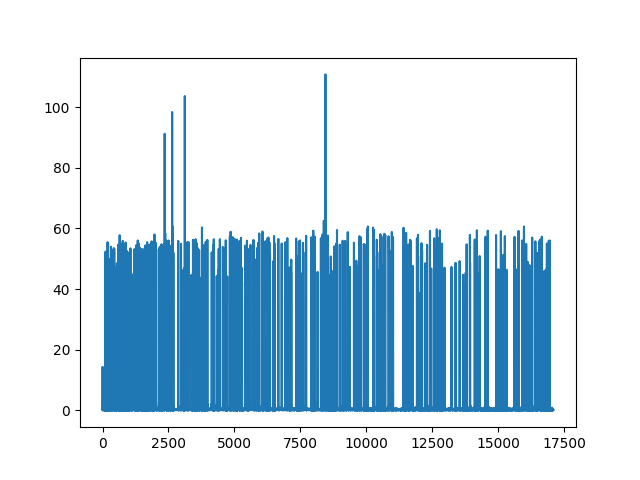
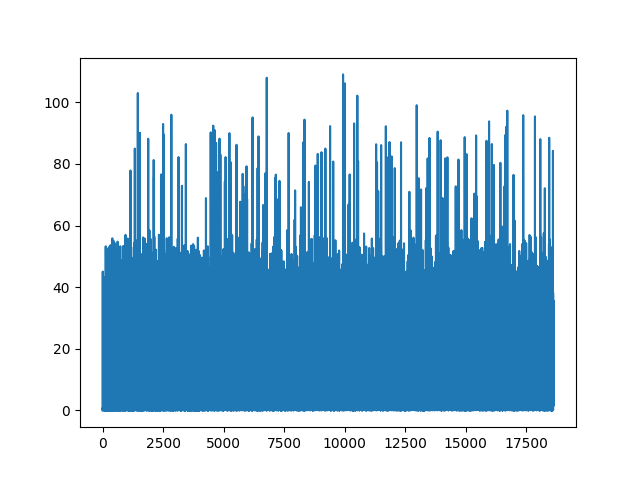
u

diff --git a/actor_critic_cat_mouse/a22c.py b/actor_critic_cat_mouse/a22c.py
@@ -39,7 +39,7 @@ def A2C(env:grid,
             a_tab = {"cat":cat(s_tab["cat"]), "mouse":mouse(s_tab["mouse"])}
             s_cat,reward_cat = env.transition_cat(a_tab["cat"])
             s_mouse,reward_mouse = env.transition_mouse(a_tab["mouse"])
-            s_tab_prim = {"cat":s_cat,"mouse":s_mouse}
+            s_tab_prim = {"cat":env.state_cat(),"mouse": env.state_mouse()}
             #######"corriger
             cat.buffer.store({"state":s_tab,"action":a_tab,"new_state":s_tab_prim,"reward":reward_cat})
             mouse.buffer.store({"state":s_tab,"action":a_tab,"new_state":s_tab_prim,"reward":reward_mouse})
@@ -50,7 +50,8 @@ def A2C(env:grid,
             if j<1:
                 continue
             for label,agent in [("mouse",mouse),("cat",cat)]:
-                sample = agent.buffer.sample(min(batch_size,len(agent.buffer.memory_state)))
+                sample = agent.buffer.sample(min(batch_size,len(agent.buffer.memory_state["mouse"])))
+                print(sample)
                 a_prim_tab = {"cat":[],"mouse":[]}
                 a_prim_tab["cat"] = cat.p(sample["new_state"]["cat"])
                 a_prim_tab["mouse"] = mouse.p(sample["new_state"]["mouse"])
@@ -65,11 +66,10 @@ def A2C(env:grid,
                     if isinstance(agent,Mouse):
                         loss_ = agent.updateQ(sample["state"]["mouse"],sample["action"]["mouse"],targets)
                     else:
-                        loss_ = agent.updateQ(
-                                        sample["state"]["cat"],
-                                        sample["action"]["cat"],
-                                        sample["action"]["mouse"],
-                                        targets)   
+                        loss_ = agent.updateQ(sample["state"]["cat"],
+                                            sample["action"]["cat"],
+                                            sample["action"]["mouse"],
+                                            targets)   
                 api = {"cat":[],"mouse":[]}
                 logits = {"cat":[],"mouse":[]}
                 api["cat"],   logits["cat"] = cat.p(sample["state"]["cat"], logit = True)

diff --git a/actor_critic_cat_mouse/policy.py b/actor_critic_cat_mouse/policy.py
@@ -34,12 +34,14 @@ class policy2(nn.Module):
         self.Nx = env.Nx
         self.Ny = env.Ny
         self.Na = env.Na
-        self.linear1 = nn.Linear(2,8)
-        self.linear2 = nn.Linear(8,16)
+        self.linear1 = nn.Linear(2,16)
+        self.linear2 = nn.Linear(16,16)
         self.linear4 = nn.Linear(16,self.Na)
         self.actv = nn.ReLU()
+        self.actv2 = nn.Sigmoid()
     def forward(self,s1, logit =False):
         x = torch.mul(torch.Tensor(s1),1.0/self.Nx)
+        x = torch.Tensor(s1)
         out = self.linear1(x)
         out = self.actv(out)
         out = self.linear2(out)
@@ -47,6 +49,7 @@ class policy2(nn.Module):
         logits = self.linear4(out)
         dist = distributions.Categorical(F.softmax(logits,dim=1))  
         action  = dist.sample([1]).squeeze()
+        #print(F.softmax(logits,dim=1))
         if logit:
             out =  action, logits
         else:

diff --git a/actor_critic_cat_mouse/test.py b/actor_critic_cat_mouse/test.py
@@ -40,13 +40,13 @@ if __name__=="__main__":
     nx = 5
     ny = 5
     # large learning rates implies more risk to local minima
-    lr_pi = 1e-4
-    lr_q = 1e-4
+    lr_pi = 1e-6
+    lr_q = 1e-6
     batch_size = 128
     buffer_size = 2048
     # learn Q with K iteration, allows more stability. We choose K=1 bc the system is simple.
     K = 2
-    n_epochs = 400
+    n_epochs = 500
     loadpath = "loads"
     loadopt = "opt"
     max_steps = 60
@@ -58,6 +58,7 @@ if __name__=="__main__":
 
     env = grid(nx,ny,max_steps = max_steps)
     env.reset()
-    mouse = Mouse(env,epsilon = epsilon)
-    cat = Cat(env,epsilon = epsilon)
+    mouse = Mouse(env,epsilon = epsilon,buffer_size = buffer_size)
+    print("mouse", mouse)
+    cat = Cat(env,epsilon = epsilon, buffer_size = buffer_size)
     A2C(env,mouse,cat,batch_size,n_epochs)

diff --git a/actor_critic_cat_mouse/buffer.py b/actor_critic_cat_mouse/buffer.py
@@ -20,7 +20,7 @@ class Buffer:
         """
         returns dictionnary of state, action, new_state and reward
         """
-        assert(type(N)==int and N>0 and N<=len(self.memory_state))
+        assert(type(N)==int and N>0 and N<=len(self.memory_state["cat"]))
         selection = torch.randint(0,len(self.memory_state["mouse"]),(N,))
         state = {"cat":torch.Tensor(np.array([self.memory_state["cat"][j] for j in selection])),
                 "mouse":torch.Tensor(np.array([self.memory_state["mouse"][j] for j in selection]))}

diff --git a/actor_critic_cat_mouse/agent.py b/actor_critic_cat_mouse/agent.py
@@ -66,6 +66,7 @@ class Mouse(Tool):
         advantage = self.q(s,self.rep_ac(api)).squeeze().detach()
         advantage = advantage.detach()
         NegativPseudoLoss = torch.mean(torch.mul(logpi.squeeze(),advantage)) 
+        print("Neg", NegativPseudoLoss)
         NegativPseudoLoss.backward()
         self.optimizerpi.step()
         return NegativPseudoLoss
